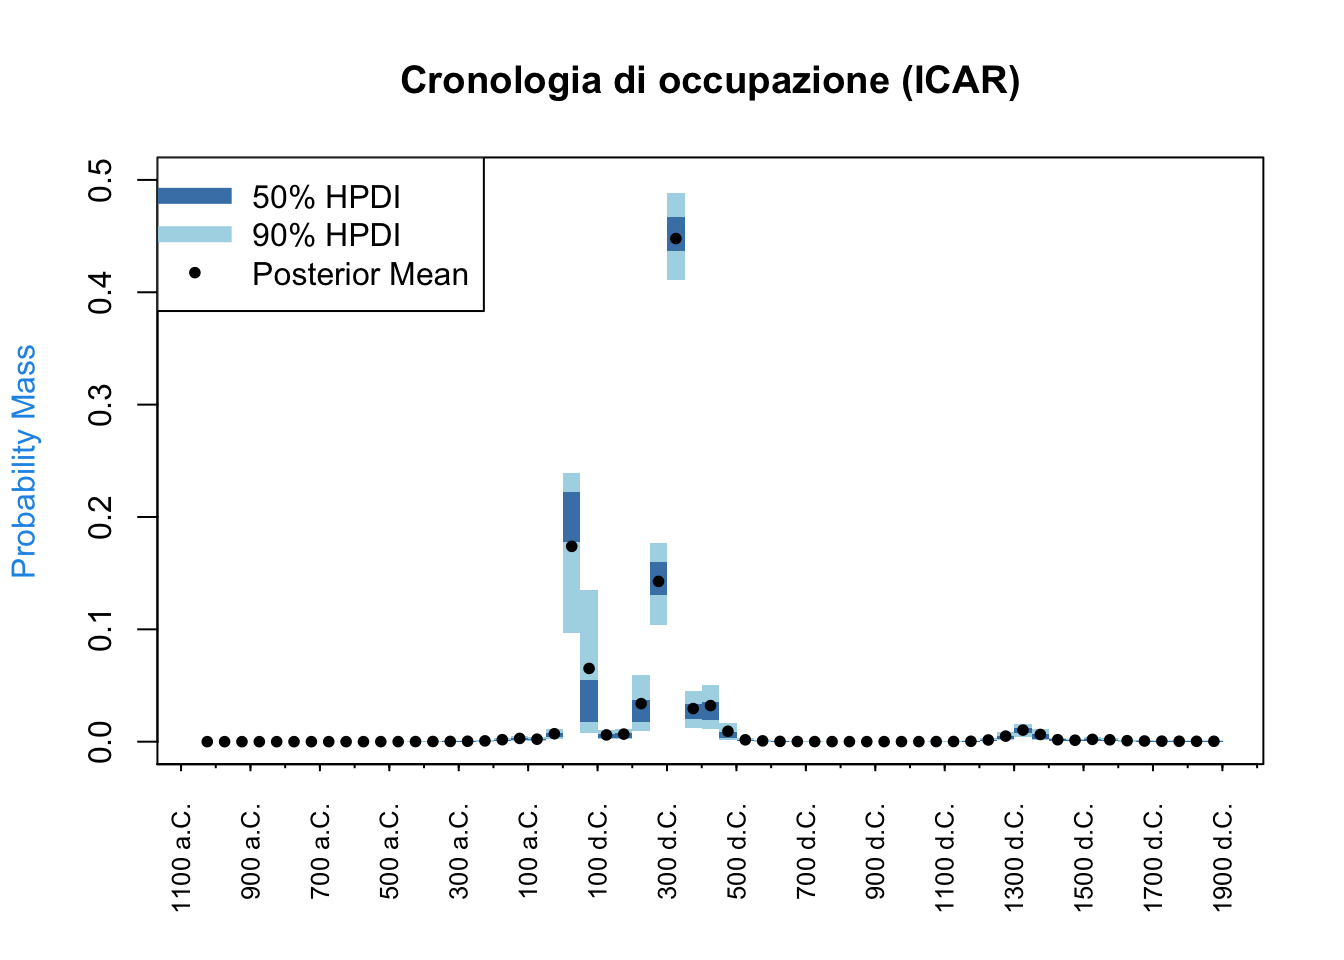
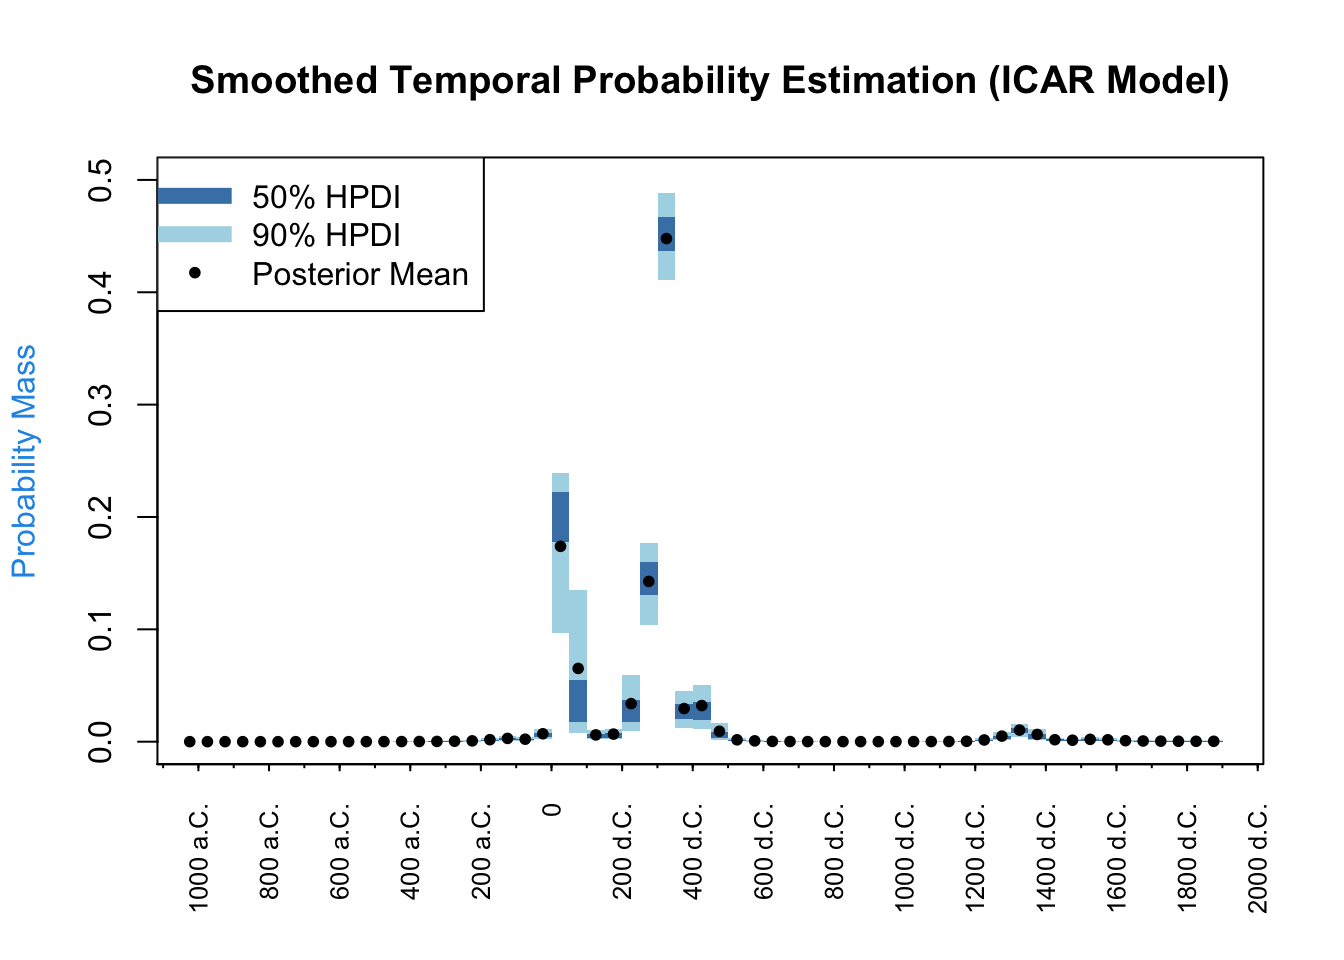
Updated chronology

diff --git a/chronology.html b/chronology.html
@@ -144,7 +144,7 @@ ul.task-list li input[type="checkbox"] {
     <div>
     <div class="quarto-title-meta-heading">Data di Pubblicazione</div>
     <div class="quarto-title-meta-contents">
-      <p class="date">10 gennaio 2025</p>
+      <p class="date">18 febbraio 2025</p>
     </div>
   </div>
   
@@ -162,11 +162,12 @@ p {
 
 </style>
 </div>
-<p>La datazione derivante dalle tipocronologie ceramiche è tipicamente espressa in forma di intervalli di tempo, riflettendo l’incertezza intrinseca nella classificazione cronologica. Ogni frammento ceramico è quindi associato a un intervallo specifico, che può essere più o meno ampio a seconda della precisione della tipocronologia o di eventuali contesti stratigrafici. L’approccio aoristico sfrutta questi intervalli distribuendo la probabilità in modo uniforme lungo tutto l’intervallo, evitando di scegliere arbitrariamente una data centrale (come invece spesso accade). Questo metodo permette di analizzare materiali con datezioni diverse in maniera coerente, evidenziando concentrazioni cronologiche nei dati attraverso il tempo.</p>
-<p>Tuttavia, la somma aoristica tratta ogni intervallo cronologico come indipendente dagli altri. Qui entrano in gioco i modelli ICAR (Intrinsically Conditional Autoregressive), che si basano sul concetto di autocorrelazione temporale. Questo principio, simile all’autocorrelazione spaziale enunciata nella prima legge della geografia di Waldo Tobler (“Ogni cosa è legata a ogni altra, ma le cose vicine sono più legate di quelle lontane”), afferma che periodi vicini nel tempo tendono ad influenzarsi reciprocamente. Ad esempio, se troviamo una grande quantità di ceramica databile a un certo periodo, è ragionevole aspettarsi che anche il periodo immediatamente successivo sia ben rappresentato, a meno che non ci siano evidenze di un’interruzione netta.</p>
-<p>Il grafico ICAR riportato di seguito incorpora questo principio di continuità temporale. La stima media a posteriori (posterior mean), rappresentata dai punti neri, è la media delle distribuzioni posteriori per ciascun intervallo temporale, calcolata dopo aver integrato i dati osservati con le assunzioni del modello. Le fasce colorate (50% HPDI in blu scuro e 90% HPDI in blu chiaro) indicano invece gli intervalli di credibilità per ciascun punto temporale. Questi intervalli rappresentano l’incertezza associata alle stime, fornendo un quadro trasparente e probabilistico dei risultati. Questo approccio non solo smussa le fluttuazioni casuali nei dati, ma fornisce stime più robuste, soprattutto nei periodi in cui i dati sono scarsi. Nei momenti con poche osservazioni, i modelli ICAR “prendono in prestito” informazioni dai periodi vicini, producendo una ricostruzione cronologica più continua e interpretabile.</p>
-<p>Questo approccio non solo smussa le fluttuazioni casuali nei dati, ma fornisce stime più robuste, soprattutto nei periodi in cui i dati sono scarsi. Nei momenti con poche osservazioni, i modelli ICAR “prendono in prestito” informazioni dai periodi vicini, producendo una ricostruzione cronologica più continua e interpretabile. Inoltre, l’autocorrelazione temporale consente di modellare processi graduali, come la diffusione o il declino di fenomeni culturali, evitando stime irrealisticamente frammentarie.</p>
+<p>La datazione derivante dalle tipocronologie ceramiche è tipicamente espressa in forma di intervalli di tempo, riflettendo l’incertezza intrinseca nella classificazione cronologica. Ogni frammento ceramico è quindi associato a un intervallo specifico, che può essere più o meno ampio a seconda della precisione della tipocronologia o di eventuali contesti stratigrafici. L’approccio aoristico utilizza questi intervalli senza forzare una data specifica: invece di scegliere un punto centrale arbitrario, distribuisce uniformemente la presenza di ciascun reperto lungo tutto il suo intervallo di datazione. Questo metodo consente di analizzare materiali con datazioni diverse in maniera coerente, evidenziando quali periodi sono più frequentemente coperti dagli intervalli di datazione.</p>
+<p>Tuttavia, è fondamentale distinguere tra frequenze e probabilità di occupazione o esistenza. La somma aoristica non rappresenta la reale cronologia di occupazione di un sito: essa mostra semplicemente quanti reperti, in base alle loro date assegnate, potrebbero esistere in un dato periodo, senza fornire una misura diretta dell’intensità o continuità dell’occupazione. In altre parole, non è una stima della probabilità che il sito fosse effettivamente occupato in un dato momento, ma solo un conteggio ponderato dei possibili intervalli di esistenza dei reperti. Questo significa che un picco nella somma aoristica non indica necessariamente un’intensificazione dell’occupazione, ma potrebbe riflettere solo la maggiore durata delle tipologie ceramiche associate a quel periodo o una migliore documentazione archeologica.</p>
+<p>Per superare alcune di queste limitazioni, entrano in gioco i modelli ICAR (Intrinsically Conditional Autoregressive), che incorporano il concetto di autocorrelazione temporale. Analogamente all’autocorrelazione spaziale espressa dalla prima legge della geografia di Waldo Tobler (“Ogni cosa è legata a ogni altra, ma le cose vicine sono più legate di quelle lontane”), i modelli ICAR assumono che periodi vicini nel tempo siano probabilmente simili in termini di occupazione. Tuttavia, anche l’ICAR non produce una cronologia diretta di occupazione, ma un modello statistico che regolarizza le frequenze aoristiche, riducendo la frammentazione artificiale dei dati e producendo una stima più continua della distribuzione dei reperti nel tempo.</p>
+<p>Il grafico ICAR riportato di seguito incorpora questo principio di continuità temporale. La stima media a posteriori (posterior mean), rappresentata dai punti neri, è la media delle distribuzioni posteriori per ciascun intervallo temporale, calcolata integrando i dati osservati con le assunzioni del modello. Le fasce colorate (50% HPDI in blu scuro e 90% HPDI in blu chiaro) rappresentano gli intervalli di credibilità, fornendo una misura dell’incertezza associata a ciascuna stima. Questo approccio non solo smussa le fluttuazioni casuali nei dati, ma fornisce stime più robuste, soprattutto nei periodi in cui le osservazioni sono scarse. Quando i dati sono limitati, il modello ICAR “prende in prestito” informazioni dai periodi adiacenti, producendo una ricostruzione cronologica più coerente e interpretabile.</p>
 <p>Rispetto alla somma aoristica, i modelli ICAR offrono due vantaggi principali: permettono di evidenziare processi continui e riducono l’impatto di anomalie o lacune nei dati. Grazie alla modellazione bayesiana, l’inclusione dell’incertezza fornisce non solo le tendenze principali, ma anche una misura chiara dell’affidabilità delle stime.</p>
+<p>Entrambi i metodi operano sui dati a disposizione, che sono una rappresentazione indiretta dell’occupazione basata sulla tipocronologia ceramica. Per ottenere una vera ricostruzione della cronologia di occupazione, sarebbe necessario integrare questi risultati con altri tipi di dati, come scavi (e quindi stratigrafie), datazioni assolute o indicatori funzionali della presenza umana.</p>
 <div class="tabset-margin-container"></div><div class="panel-tabset">
 <ul class="nav nav-tabs" role="tablist"><li class="nav-item" role="presentation"><a class="nav-link active" id="tabset-1-1-tab" data-bs-toggle="tab" data-bs-target="#tabset-1-1" role="tab" aria-controls="tabset-1-1" aria-selected="true">Aoristic</a></li><li class="nav-item" role="presentation"><a class="nav-link" id="tabset-1-2-tab" data-bs-toggle="tab" data-bs-target="#tabset-1-2" role="tab" aria-controls="tabset-1-2" aria-selected="false">ICAR</a></li></ul>
 <div class="tab-content">
@@ -176,7 +177,7 @@ p {
 <div id="fig-aoristic-General-NACS-Reduced" class="quarto-figure quarto-figure-center anchored">
 <figure class="figure">
 <p><img src="chronology_files/figure-html/fig-aoristic-General-NACS-Reduced-1.png" class="img-fluid figure-img" width="672"></p>
-<figcaption class="figure-caption">Figura&nbsp;1: Somma aoristica dei materiali rinvenuti durante le ricognizioni del 2024, datati in base a macroclassi cronotipologiche. Inquadramento cronologico dei materiali archeologici dal dataset pulito e ristretto cronologicamente. Al momento, il sito di Mascherone è escluso.</figcaption>
+<figcaption class="figure-caption">Figura&nbsp;1: Somma aoristica dei materiali rinvenuti durante le ricognizioni del 2024, datati in base a macroclassi cronotipologiche. Inquadramento cronologico dei materiali archeologici dal dataset pulito da rumore di fondo (ceramica acroma, ceramica da fuoco, laterizi, ceramica non identificata). Al momento, il sito di Mascherone è escluso perché le analisi sul campo hanno adottato una metodologia differente.</figcaption>
 </figure>
 </div>
 </div>
@@ -188,7 +189,7 @@ p {
 <div id="fig-ICAR-General-NACS-Reduced" class="quarto-figure quarto-figure-center anchored">
 <figure class="figure">
 <p><img src="chronology_files/figure-html/fig-ICAR-General-NACS-Reduced-1.png" class="img-fluid figure-img" width="672"></p>
-<figcaption class="figure-caption">Figura&nbsp;2: ICAR sul dataset pulito dal rumore di fondo con parametri [niter=10000, nburnin=5000, thin=100, nchains=4], ristretta al range 1500 a.C. - 2000 d.C.</figcaption>
+<figcaption class="figure-caption">Figura&nbsp;2: Modello ICAR sul dataset pulito dal rumore di fondo (ceramica acroma, ceramica da fuoco, laterizi, ceramica non identificata) con parametri [niter=2000000, nburnin=25000, thin=50, nchains=4, sigmaPrior=dexp(rate=100)], ristretta al range 5000 a.C. - 1900 d.C. Al momento, il sito di Mascherone è escluso perché le analisi sul campo hanno adottato una metodologia differente.</figcaption>
 </figure>
 </div>
 </div>

diff --git a/mascherone.html b/mascherone.html
@@ -153,7 +153,7 @@ div.csl-indent {
    
   <ul>
   <li><a href="#inquadramento-archeologico" id="toc-inquadramento-archeologico" class="nav-link active" data-scroll-target="#inquadramento-archeologico">Inquadramento archeologico</a></li>
-  <li><a href="#cronologia-di-occupazione" id="toc-cronologia-di-occupazione" class="nav-link" data-scroll-target="#cronologia-di-occupazione">Cronologia di occupazione</a>
+  <li><a href="#cronologia" id="toc-cronologia" class="nav-link" data-scroll-target="#cronologia">Cronologia</a>
   <ul class="collapse">
   <li><a href="#test-icar-models" id="toc-test-icar-models" class="nav-link" data-scroll-target="#test-icar-models">Test: ICAR Models</a></li>
   <li><a href="#test-stan" id="toc-test-stan" class="nav-link" data-scroll-target="#test-stan">Test: Stan</a></li>
@@ -215,8 +215,8 @@ p {
 <h2 class="anchored" data-anchor-id="inquadramento-archeologico">Inquadramento archeologico</h2>
 <p>L’area in questione era già di interesse archeologico in seguito ad una segnalazione del 1967 alla Arch. SAP di Foggia (R25/164 relazione del 4.3.1967). L’interpretazione di villa romana marittima, posta su una penisola in antichità circondata dalle acque su tre lati, è stata offerta da diversi autori <span class="citation" data-cites="dantiVillaMarittimaLocalita1999 delanosmithBuriedLagoonLost1974 delanosmithDauniaVetusTerra1978 lippolisTestimonianzeDiEta1984 marinIntornoAdAlcuni1986 mazzeiSipontoAntica1999 volpeDauniaNelletaRomanizzazione1990">(<a href="#ref-dantiVillaMarittimaLocalita1999" role="doc-biblioref">Danti 1999</a>; <a href="#ref-delanosmithBuriedLagoonLost1974" role="doc-biblioref">Delano Smith e Morrison 1974</a>; <a href="#ref-delanosmithDauniaVetusTerra1978" role="doc-biblioref">Delano Smith 1978</a>; <a href="#ref-lippolisTestimonianzeDiEta1984" role="doc-biblioref">Lippolis 1984</a>; <a href="#ref-marinIntornoAdAlcuni1986" role="doc-biblioref">Marin 1986</a>; <a href="#ref-mazzeiSipontoAntica1999" role="doc-biblioref">Mazzei 1999</a>; <a href="#ref-volpeDauniaNelletaRomanizzazione1990" role="doc-biblioref">Volpe 1990</a>)</span>. Più recentemente, ricerche aerotopografiche hanno fornito una pianta più dettagliata dell’edificio <span class="citation" data-cites="ceraudoIndaginiPredittiveRicerche2011 ceraudoArcheologiaAereaStudi2011">(<a href="#ref-ceraudoIndaginiPredittiveRicerche2011" role="doc-biblioref">Ceraudo et al. 2011</a>; <a href="#ref-ceraudoArcheologiaAereaStudi2011" role="doc-biblioref">Ceraudo 2011</a>)</span>, su cui non sono state avanzate ipotesi riguardo la cronologia delle fasi di occupazione.</p>
 </section>
-<section id="cronologia-di-occupazione" class="level2 page-columns page-full">
-<h2 class="anchored" data-anchor-id="cronologia-di-occupazione">Cronologia di occupazione</h2>
+<section id="cronologia" class="level2 page-columns page-full">
+<h2 class="anchored" data-anchor-id="cronologia">Cronologia</h2>
 <p>La prima fase di analisi dei dati raccolti sul campo, basata su una distinzione preliminare in macroclassi ceramiche, è stata incentrata sulla ricostruzione delle fasi a maggiore intensità di occupazione. L’analisi aoristica (cumulativa), che ha tenuto in considerazione tutto il materiale ceramico rinvenuto all’interno del perimetro del <strong>Campo 62</strong>, mostra una lunga occupazione dell’area a partire dalla preistoria, in cui sono ben distinguibili tuttavia due fasi ad alta intensità insediativa in età romana. La prima fase di età repubblicana, a cui probabilmente si deve l’impianto della villa, mostra una cesura alla fine dell’età augustea. Una seconda fase di occupazione fra il IV e la prima metà del VI secolo d.C. è ipotizzabile, con una cesura piuttosto netta fra il VII e VIII secolo d.C.</p>
 <p>La cronologia proposta è assolutamente preliminare e necessita rifiniture su più fronti:</p>
 <ol type="1">
